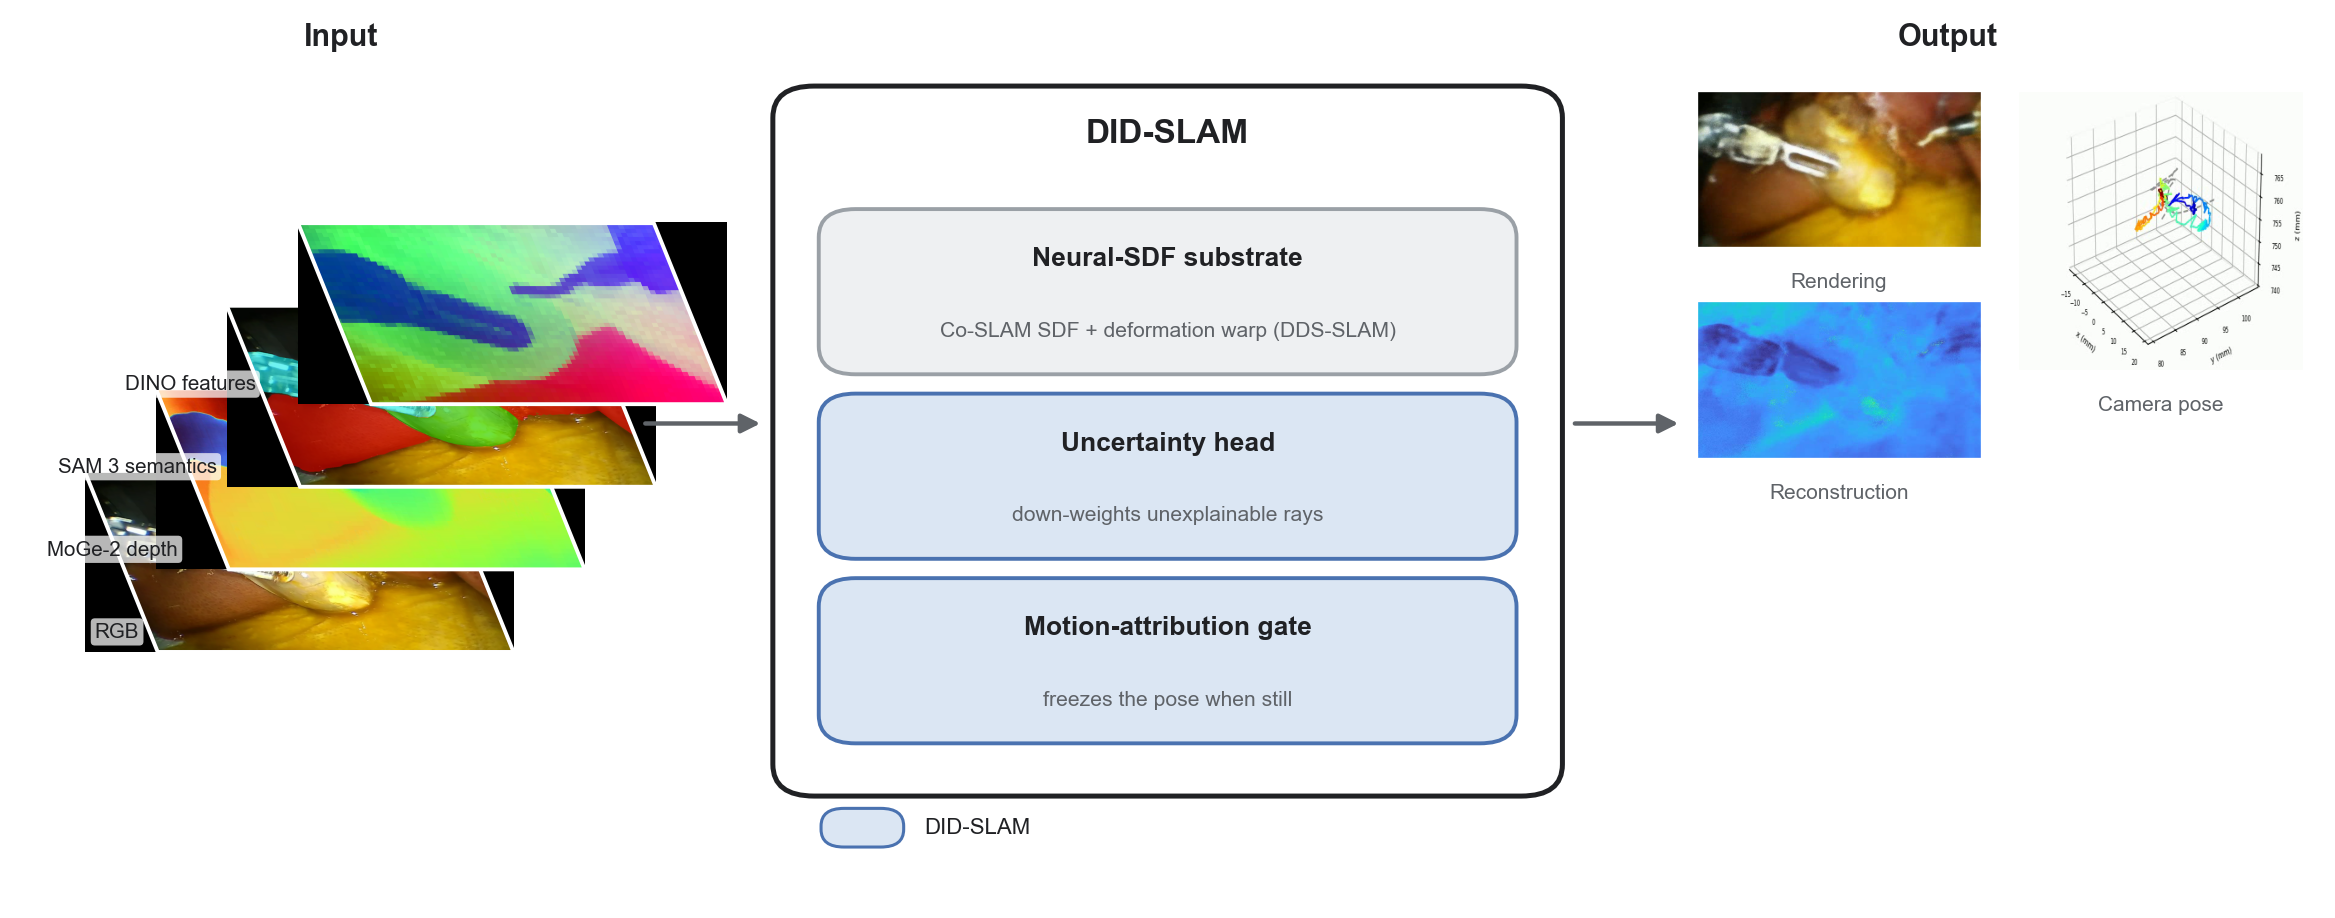
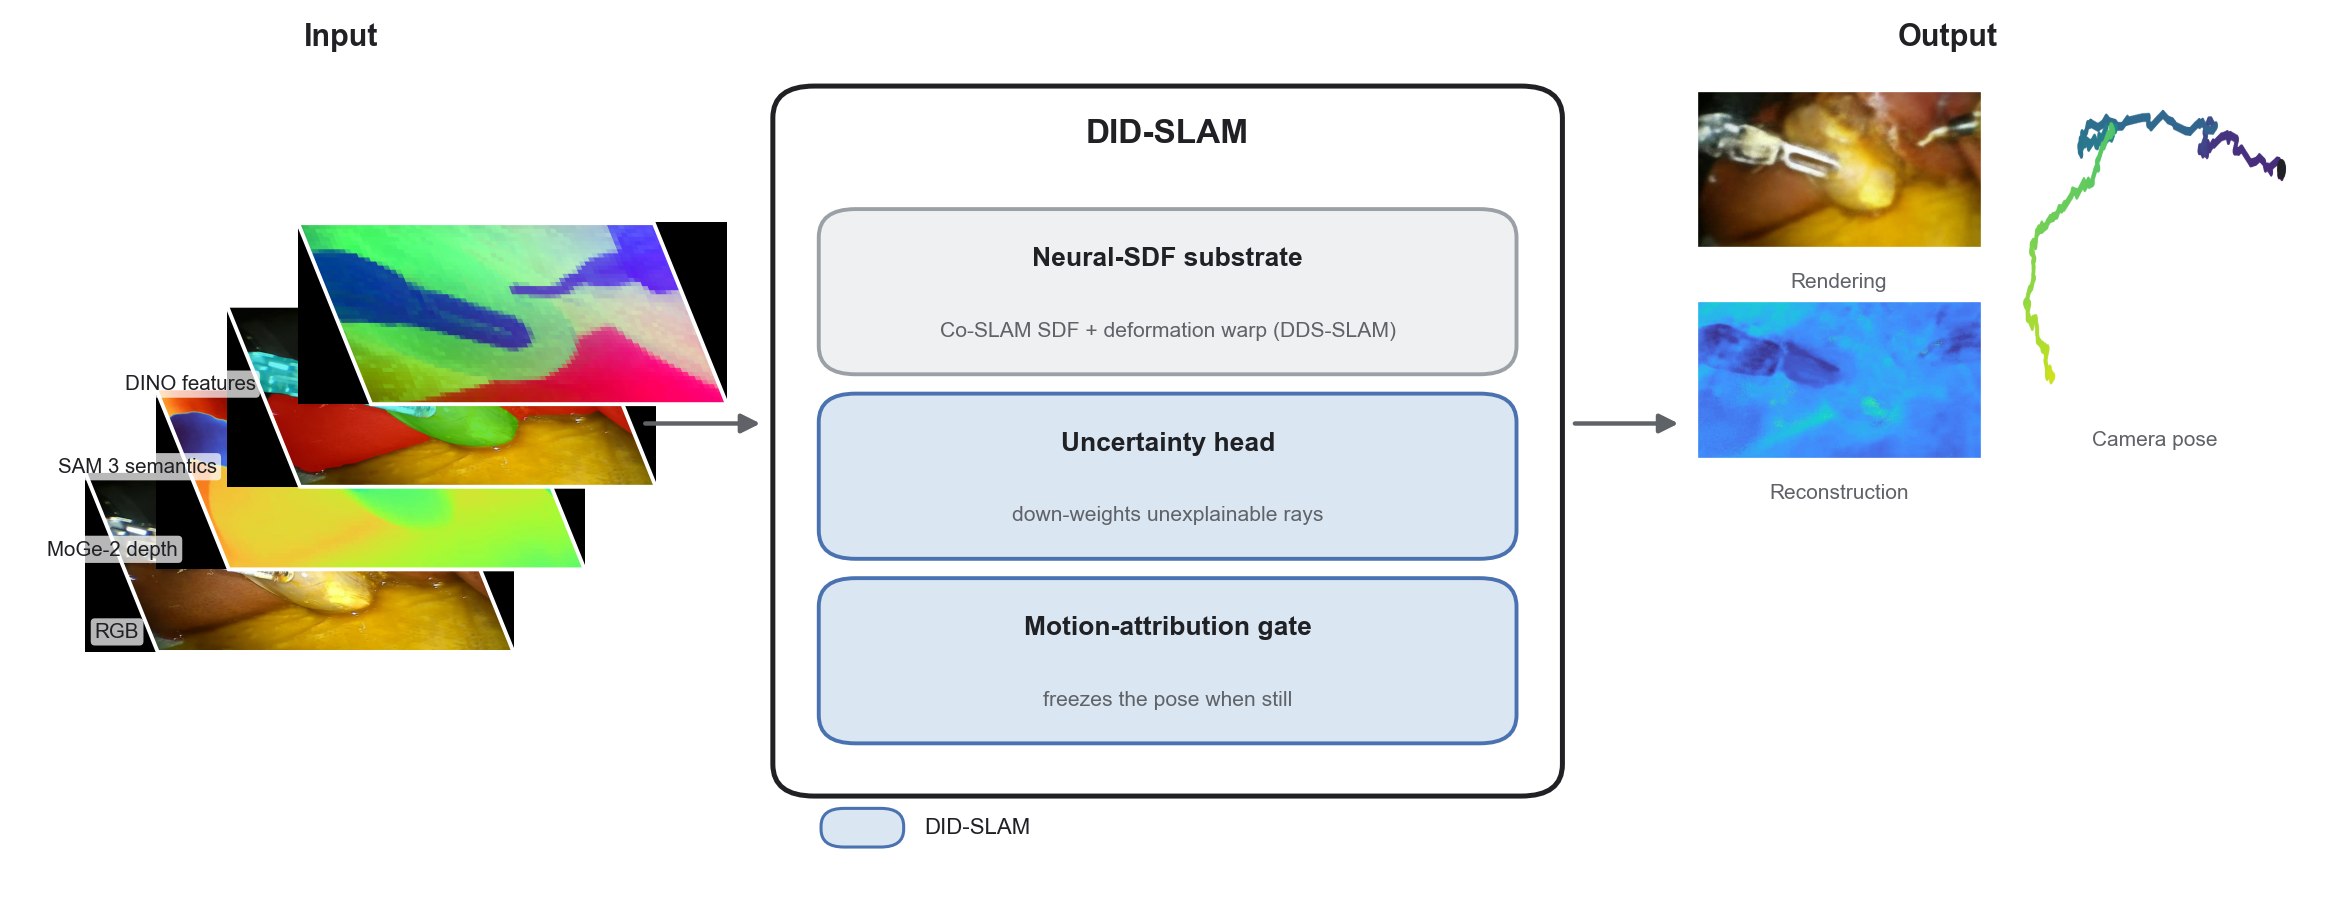
figures: clean camera-pose line (no background), swap into architecture Output
New gen_camera_pose.py -> figures/did_inputs/camera_pose.png: the DID-SLAM C_2/001
Sim(3)-aligned trajectory as a single line coloured by time, start marked, with no
axes/grid/box/background (transparent PNG). Replaces the busy 3D-axes trajectory
crop in the did_architecture Output panel; the pose now reads as a clean line.

Changed region(s): [[0.8634, 0.122, 0.9867, 0.3965], [0.8942, 0.427, 0.9559, 0.488]]

diff --git a/Addons/viz/gen_camera_pose.py b/Addons/viz/gen_camera_pose.py
@@ -1,0 +1,56 @@
+#!/usr/bin/env python
+"""figures/did_inputs/camera_pose.png -- the DID-SLAM C_2/001 camera trajectory as a
+clean line with NO axes, grid, box or background (transparent PNG). For the
+'Camera pose' output panel of the DID-SLAM architecture figure.
+
+Sim(3)-aligned estimate, projected on the ground-truth dominant plane, coloured by
+normalised time; start marked. No graphic behind the line.
+
+Local: python Addons/viz/gen_camera_pose.py
+"""
+import os
+import numpy as np
+import matplotlib
+matplotlib.use('Agg')
+import matplotlib.pyplot as plt
+from matplotlib.collections import LineCollection
+
+FINAL = r"C:\Users\benli\OneDrive\Desktop\Results\drive-download-20260711T053215Z-2-001\rect_bestbase_bdds_final_20260709\C2_001_calm_v3gate_s0\est_c2w_data.txt"
+GT = r"F:\Datasets\CRCD-Published\C_2\snippet_001\groundtruth.txt"
+OUT = r"c:\Users\benli\OneDrive\Documents\GitHub\DDS-SLAM\DDS-SLAM\figures\did_inputs\camera_pose.png"
+
+
+def sim3(est, gt):
+    n = min(len(est), len(gt)); X = est[:n].T; Y = gt[:n].T
+    mx = X.mean(1, keepdims=True); my = Y.mean(1, keepdims=True)
+    Xc = X - mx; Yc = Y - my
+    U, S, Vt = np.linalg.svd(Yc @ Xc.T / n)
+    d = np.sign(np.linalg.det(U @ Vt)); D = np.diag([1, 1, d])
+    s = (S * [1, 1, d]).sum() / (Xc * Xc).sum() * n
+    R = U @ D @ Vt; t = my - s * R @ mx
+    return (s * R @ X + t).T, Y.T
+
+
+est = np.loadtxt(FINAL)[:, [3, 7, 11]]
+gt = np.loadtxt(GT, comments='#')[:, 1:4]
+ea, ga = sim3(est, gt)
+v = ga - ga.mean(0); order = np.argsort(-np.var(v, axis=0)); a, b = order[0], order[1]
+xy = np.column_stack([ea[:, a], ea[:, b]]) * 1000.0   # mm
+
+# colour the line by normalised time
+segs = np.stack([xy[:-1], xy[1:]], axis=1)
+lc = LineCollection(segs, cmap='viridis', linewidth=3.2, capstyle='round')
+lc.set_array(np.linspace(0, 1, len(segs)))
+
+fig, ax = plt.subplots(figsize=(4.2, 3.2), dpi=220)
+ax.add_collection(lc)
+ax.scatter(xy[0, 0], xy[0, 1], s=42, color='#202124', zorder=5)   # start
+ax.set_aspect('equal'); ax.autoscale()
+m = 0.06 * (xy.max(0) - xy.min(0))
+ax.set_xlim(xy[:, 0].min() - m[0], xy[:, 0].max() + m[0])
+ax.set_ylim(xy[:, 1].min() - m[1], xy[:, 1].max() + m[1])
+ax.axis('off')
+
+os.makedirs(os.path.dirname(OUT), exist_ok=True)
+fig.savefig(OUT, bbox_inches='tight', pad_inches=0.05, transparent=True)
+print('wrote', OUT)

diff --git a/Addons/viz/gen_did_architecture.py b/Addons/viz/gen_did_architecture.py
@@ -48,7 +48,11 @@ cap = cv2.VideoCapture(PANELS)
 mid = int(cap.get(cv2.CAP_PROP_FRAME_COUNT)) // 2
 cap.set(cv2.CAP_PROP_POS_FRAMES, mid); ok, fr = cap.read(); cap.release(); assert ok
 depth_in = fr[35:360, 965:1438]; rendered = fr[35:360, 485:958]
-depth_out = fr[395:718, 5:478]; traj = fr[752:1076, 8:474]
+depth_out = fr[395:718, 5:478]
+POSE = r'c:\Users\benli\OneDrive\Documents\GitHub\DDS-SLAM\DDS-SLAM\figures\did_inputs\camera_pose.png'
+if not os.path.exists(POSE):
+    os.system('python "%s"' % os.path.join(os.path.dirname(__file__), 'gen_camera_pose.py'))
+pose = plt.imread(POSE)   # clean trajectory line, transparent background
 
 # ---- clean RGB + colourised SAM 3 semantics for the SAME mid frame ----
 rgbs = sorted(glob.glob(SNIP + '/rgb/*.png')); sems = sorted(glob.glob(SNIP + '/semantic_instance/*.png'))
@@ -118,7 +122,8 @@ box(35, 9, 30, 9,   CONF, CONE, 'Motion-attribution gate', 'freezes the pose whe
 ax.text(84, 48.5, 'Output', ha='center', fontsize=11, fontweight='bold')
 thumb(rendered,  73, 85.5, 37, 46, 'Rendering')
 thumb(depth_out, 73, 85.5, 25, 34, 'Reconstruction')
-thumb(traj,      87, 99.5, 30, 46, 'Camera pose')
+ax.imshow(pose, extent=[86.5, 99.5, 28, 46], aspect='auto', zorder=3)   # clean line, no border
+ax.text(93, 26.6, 'Camera pose', ha='center', va='top', fontsize=7.5, color=MUT, zorder=5)
 
 arrow(27, 32.5, 27); arrow(67.5, 72.5, 27)
 
